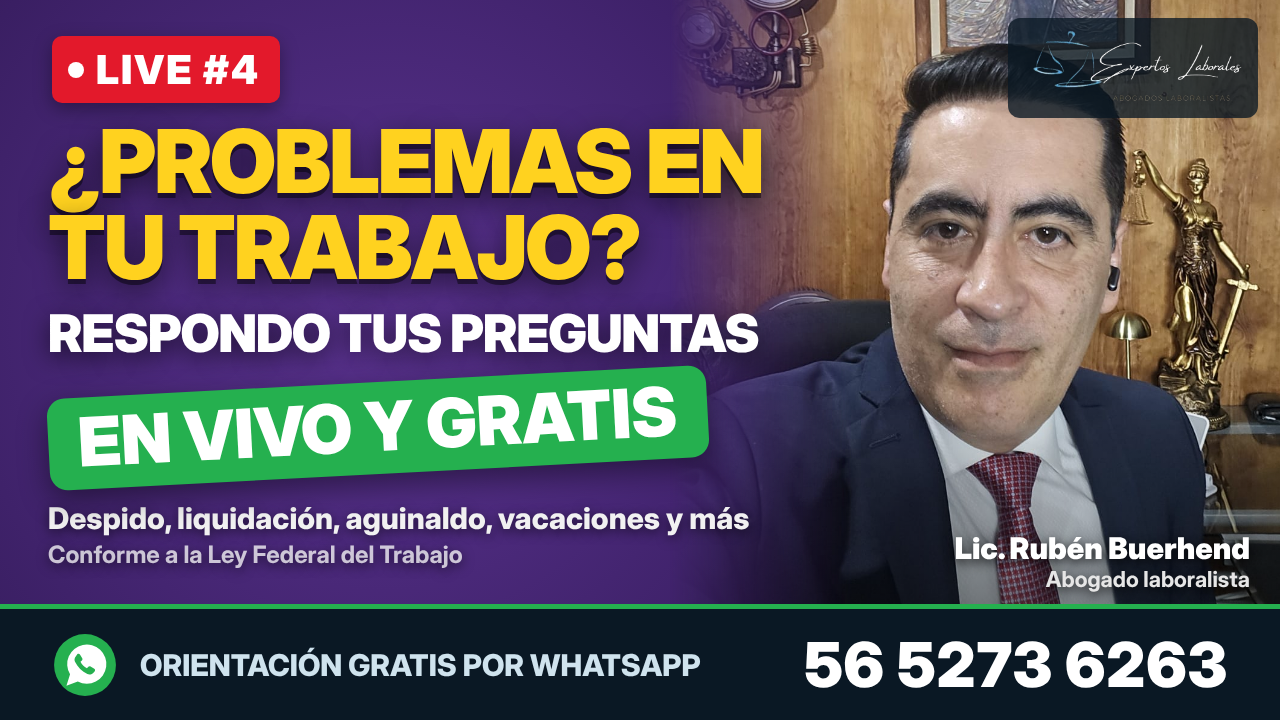
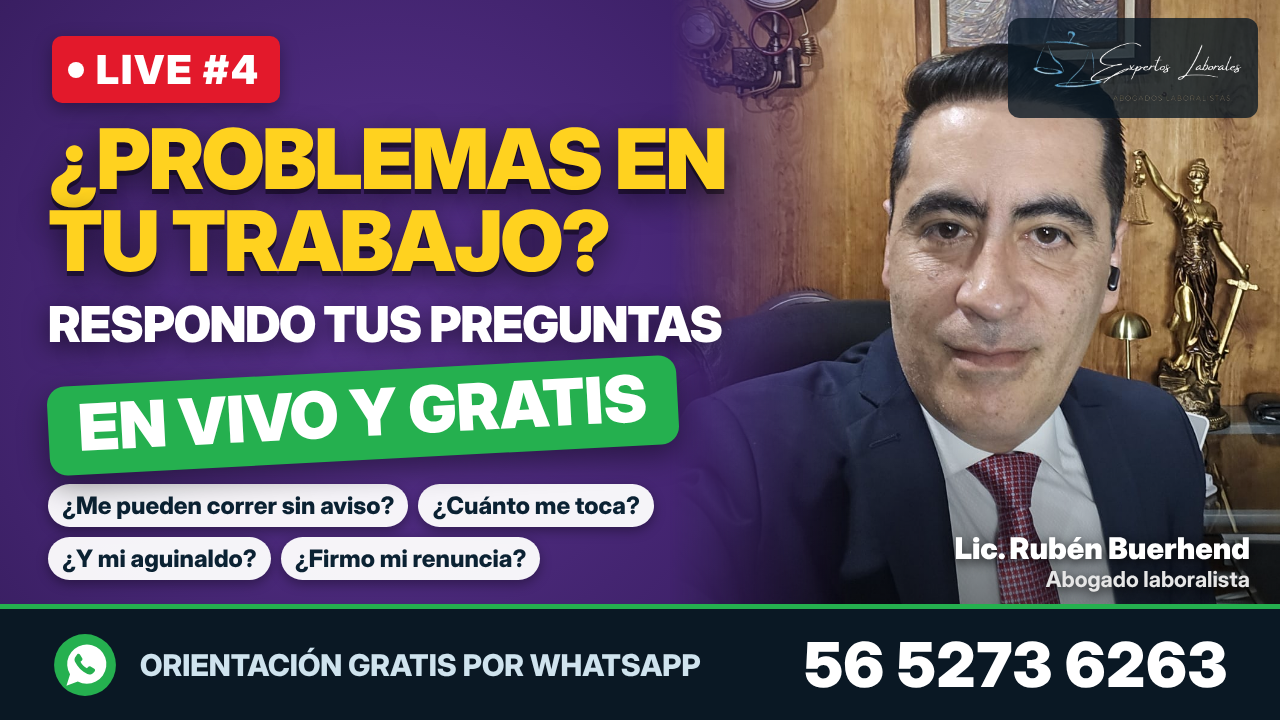
Miniaturas LIVE #N: preguntas de ejemplo como etiquetas, rotando por live
Claude-Session: https://claude.ai/code/session_01C3deJav44xscTHSyeunJhm

Changed region(s): [[0.0312, 0.4278, 0.5938, 0.825], [0.0312, 0.1528, 0.625, 0.3972]]

diff --git a/marketing/miniaturas/generar_serie_lives.js b/marketing/miniaturas/generar_serie_lives.js
@@ -13,10 +13,15 @@ const FRASES=[
  {l1:'TUS DUDAS LABORALES',l2:'RESUELTAS EN VIVO',pill:'ASESORÍA GRATIS'},
  {l1:'PREGÚNTAME LO QUE QUIERAS',l2:'SOBRE TU TRABAJO',pill:'ASESORÍA GRATIS'},
 ];
+const PREGUNTAS=[
+ ['¿Me pueden correr sin aviso?','¿Cuánto me toca?','¿Y mi aguinaldo?','¿Firmo mi renuncia?'],
+ ['¿Me deben pagar vacaciones?','¿Cuánto me toca?','¿Me corrieron embarazada?','¿Qué hago si no me pagan?'],
+ ['¿Me pueden bajar el sueldo?','¿Finiquito o liquidación?','¿Y mi aguinaldo?','¿Me pagan horas extra?'],
+];
 const DESDE=+(process.argv[3]||1), HASTA=+(process.argv[4]||6);
 const V=[];for(let n=DESDE;n<=HASTA;n++){const f=FRASES[(n-1)%FRASES.length];V.push({id:'live_'+n,num:n,foto:n%2?'negro':'azul',bg:COLORES[(n-1)%COLORES.length],...f,
  pillBg:(n-1)%COLORES.length===2?'#ffd21f':'#25b04f',pillC:(n-1)%COLORES.length===2?'#3a2a00':'#fff',
- sub:'Despido, liquidación, aguinaldo, vacaciones y más',sub2:'Conforme a la Ley Federal del Trabajo'});}
+ preg:PREGUNTAS[(n-1)%PREGUNTAS.length],sub:'Despido, liquidación, aguinaldo, vacaciones y más',sub2:'Conforme a la Ley Federal del Trabajo'});}
 const html=v=>{const f=FOTOS[v.foto];return `<!doctype html><html><head><meta charset="utf-8"><style>
 *{margin:0;padding:0;box-sizing:border-box}
 body{width:1280px;height:720px;overflow:hidden;font-family:'Inter Display','Inter',sans-serif;background:radial-gradient(circle at 30% 45%,${v.bg[0]} 0%,${v.bg[1]} 50%,${v.bg[2]} 100%);position:relative;color:#fff}
@@ -29,6 +34,7 @@ body{width:1280px;height:720px;overflow:hidden;font-family:'Inter Display','Inte
 .l1{font-weight:900;color:#ffd21f;line-height:.98;letter-spacing:-2px;text-shadow:0 5px 0 rgba(0,0,0,.45),0 10px 30px rgba(0,0,0,.6)}
 .l2{font-weight:900;line-height:1;margin-top:18px;letter-spacing:-1px;text-shadow:0 6px 24px rgba(0,0,0,.6);white-space:nowrap}
 .pill{display:inline-block;margin-top:22px;background:${v.pillBg};color:${v.pillC};font-weight:900;line-height:1;padding:10px 30px 14px;border-radius:18px;transform:rotate(-3deg);box-shadow:0 10px 30px rgba(0,0,0,.45);white-space:nowrap}
+.chips{margin-top:24px;display:flex;flex-wrap:wrap;gap:10px;width:720px}.chips span{background:rgba(255,255,255,.95);color:#0b2233;font-weight:800;font-size:24px;padding:7px 14px;border-radius:999px;box-shadow:0 4px 12px rgba(0,0,0,.35)}
 .sub{margin-top:26px;font-weight:800;font-size:30px;color:#f1f1f1;text-shadow:0 3px 12px rgba(0,0,0,.6)}
 .sub span{display:block;font-weight:700;font-size:24px;color:rgba(255,255,255,.75);margin-top:4px}
 .logo{position:absolute;right:22px;top:18px;width:250px;padding:8px 12px;background:rgba(10,24,36,.78);border-radius:12px}
@@ -39,7 +45,7 @@ body{width:1280px;height:720px;overflow:hidden;font-family:'Inter Display','Inte
 </style></head><body>
 <div class="foto"><img src="${f.src}"></div><img class="logo" src="logo_despacho.png">
 <div class="vivo"><i></i>${v.num?"LIVE #"+v.num:"EN VIVO"}</div>
-<div class="txt"><div class="l1" id="l1">${v.l1}</div><div class="l2" id="l2">${v.l2}</div><div class="pill" id="pill">${v.pill}</div><div class="sub">${v.sub}<span>${v.sub2}</span></div></div>
+<div class="txt"><div class="l1" id="l1">${v.l1}</div><div class="l2" id="l2">${v.l2}</div><div class="pill" id="pill">${v.pill}</div>${v.preg?`<div class="chips">${v.preg.map(q=>`<span>${q}</span>`).join("")}</div>`:`<div class="sub">${v.sub}<span>${v.sub2}</span></div>`}</div>
 <div class="nombre">Lic. Rubén Buerhend<span>Abogado laboralista</span></div>
 <div class="bar"><svg viewBox="0 0 64 64"><circle cx="32" cy="32" r="30" fill="#25b04f"/><path d="M14 52l3.5-11A19 19 0 1 1 25 48z" fill="#fff"/><path d="M24.5 21.5c.7-.7 2-.6 2.6.3l2.2 3.6c.4.7.3 1.6-.3 2.2l-1.4 1.3c1.3 2.8 3.5 5 6.3 6.3l1.3-1.4c.6-.6 1.5-.7 2.2-.3l3.6 2.2c.9.6 1 1.9.3 2.6l-1.6 1.6c-1.4 1.4-3.6 1.8-5.4.9-5.2-2.6-9.4-6.8-12-12-.9-1.8-.5-4 .9-5.4z" fill="#25b04f"/></svg><div class="t">ORIENTACIÓN GRATIS POR WHATSAPP</div><div class="n">56 5273 6263</div></div>
 <script>
@@ -47,6 +53,9 @@ function fit(id,max,min,maxW,maxH){const e=document.getElementById(id);let s=max
  while(s>min&&(e.scrollWidth>maxW||(maxH&&e.offsetHeight>maxH))){s-=2;e.style.fontSize=s+'px';}}
 document.getElementById('l1').style.width='720px';
 fit('l1',96,50,720,200);fit('l2',62,30,720);fit('pill',96,40,660);
+(function(){const t=document.querySelector('.txt');const el=id=>document.getElementById(id);
+ let g=0;while(t.getBoundingClientRect().bottom>590&&g<40){g++;
+  for(const id of ['l1','l2','pill']){const e=el(id);const s=parseFloat(e.style.fontSize);e.style.fontSize=(s*0.95)+'px';}}})();
 </script></body></html>`};
 (async()=>{const b=await chromium.launch();const p=await b.newPage({viewport:{width:1280,height:720},deviceScaleFactor:1});
  const fs=require('fs');
